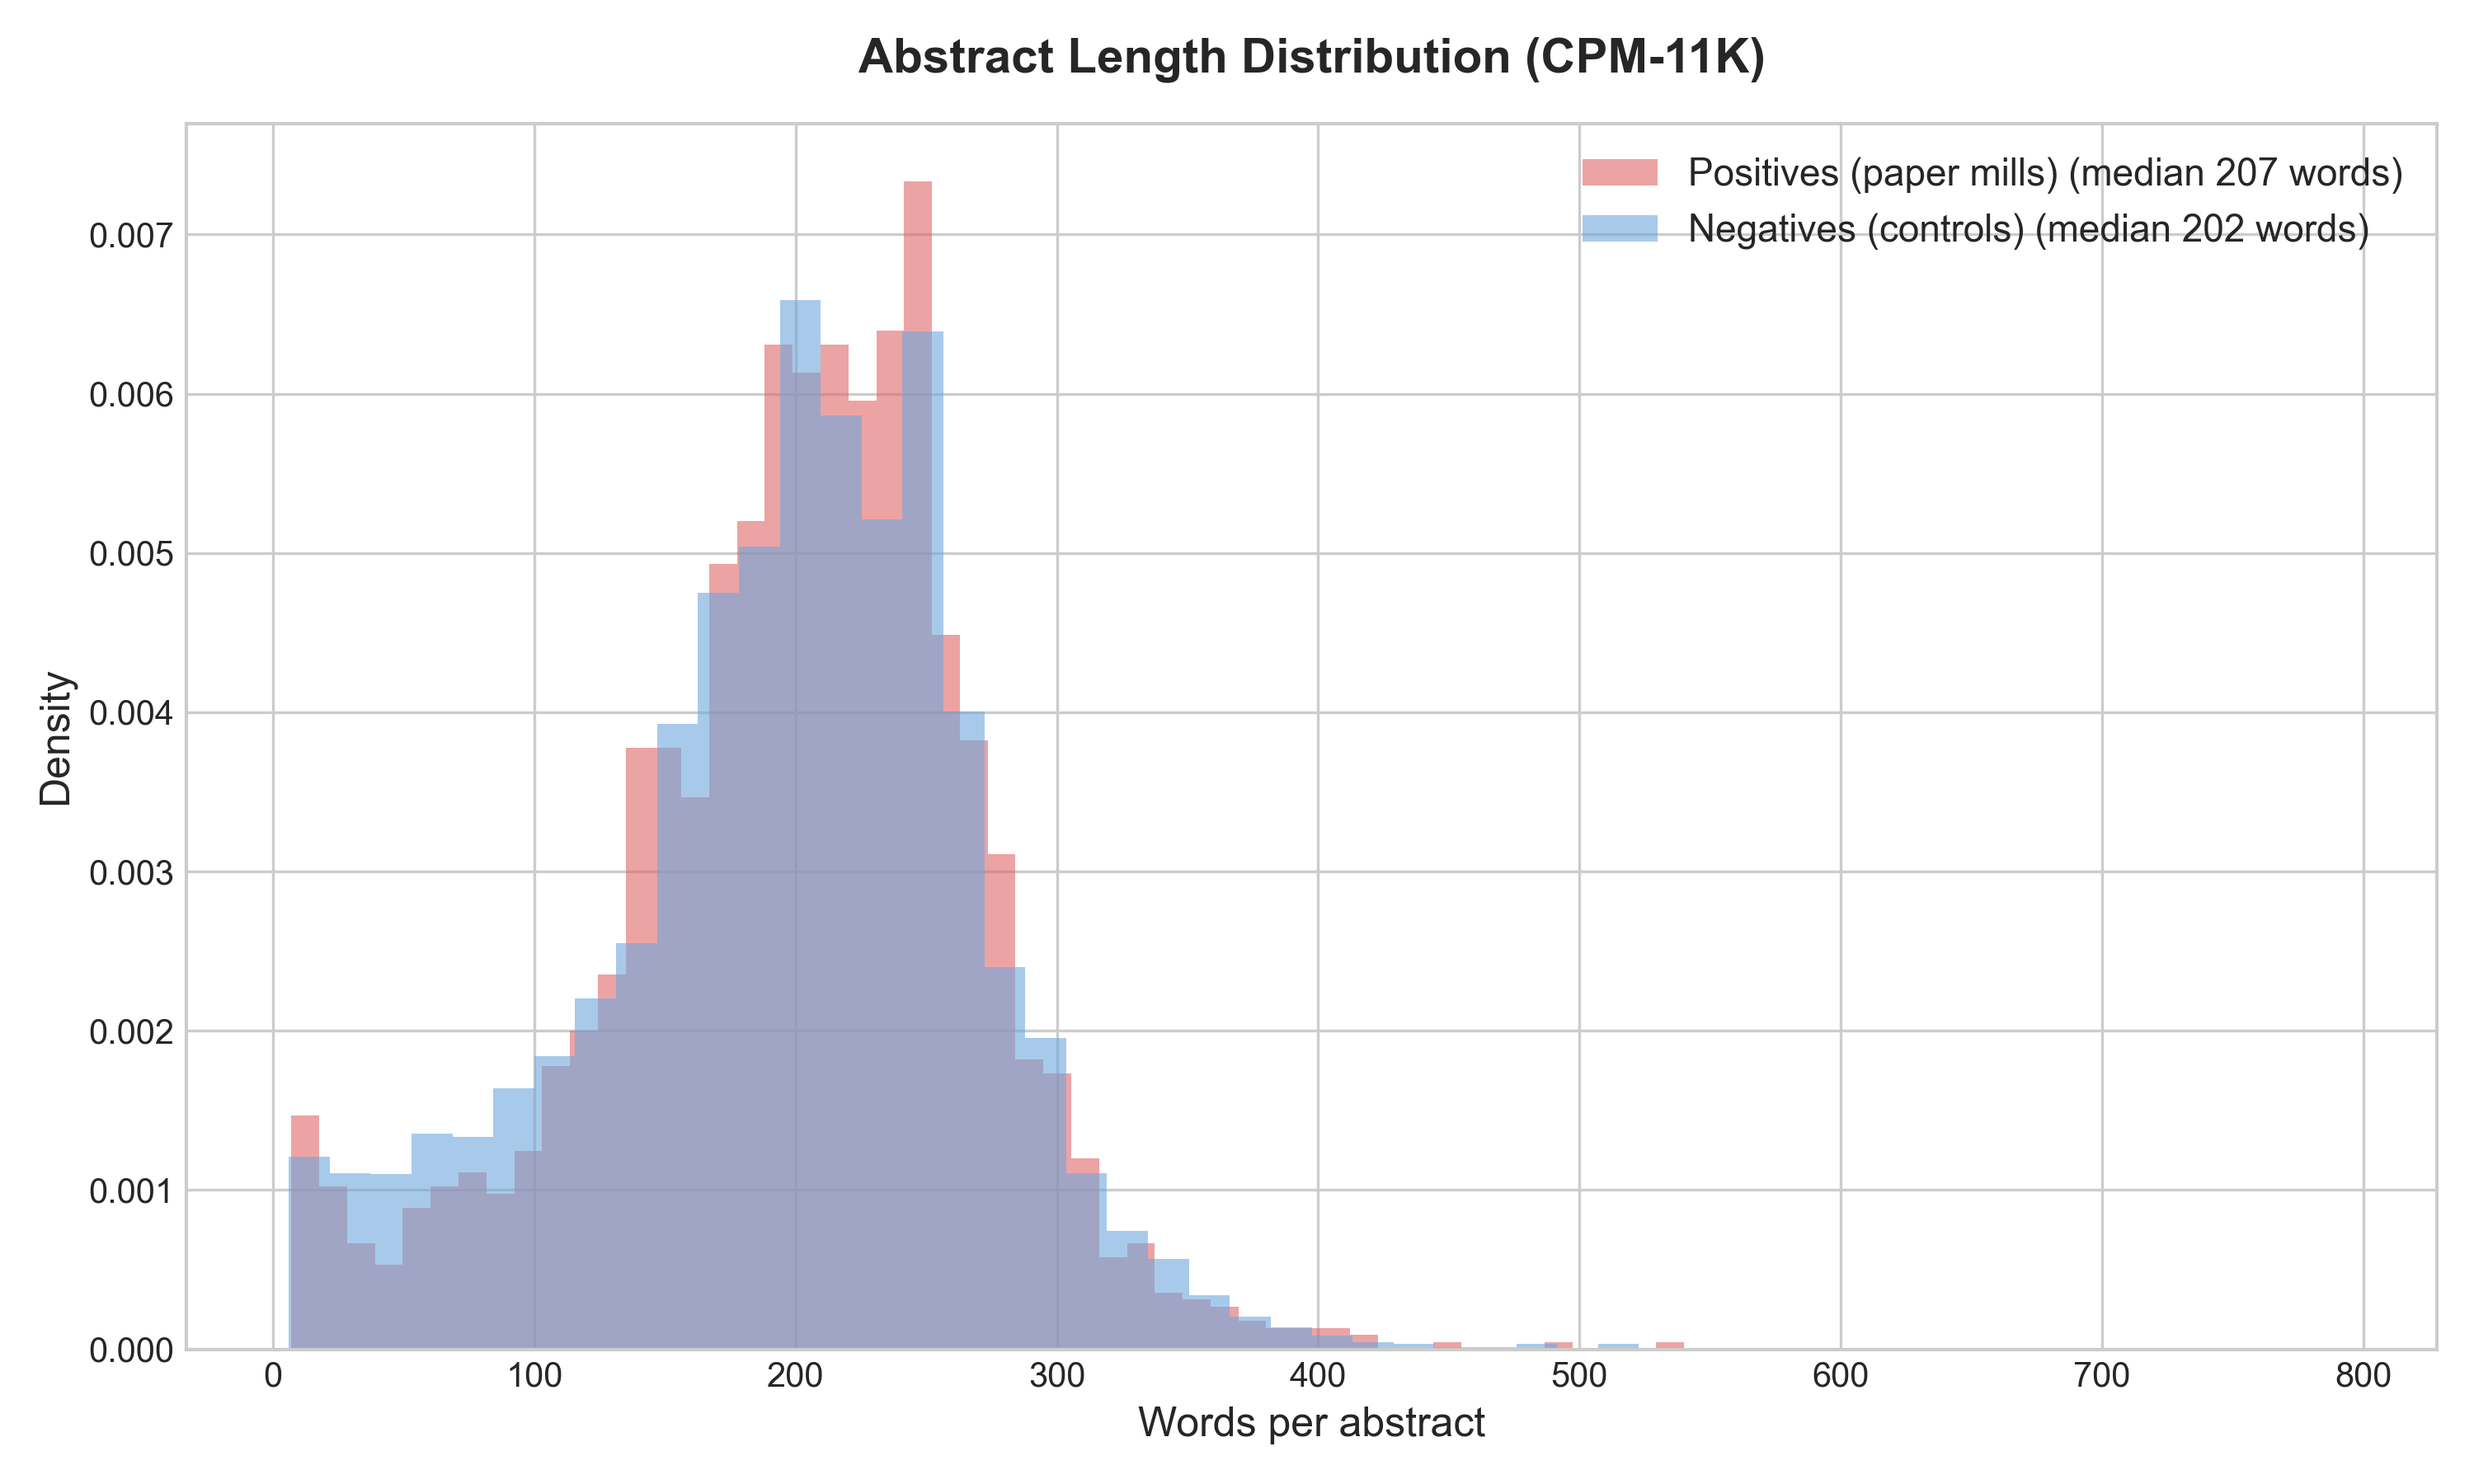
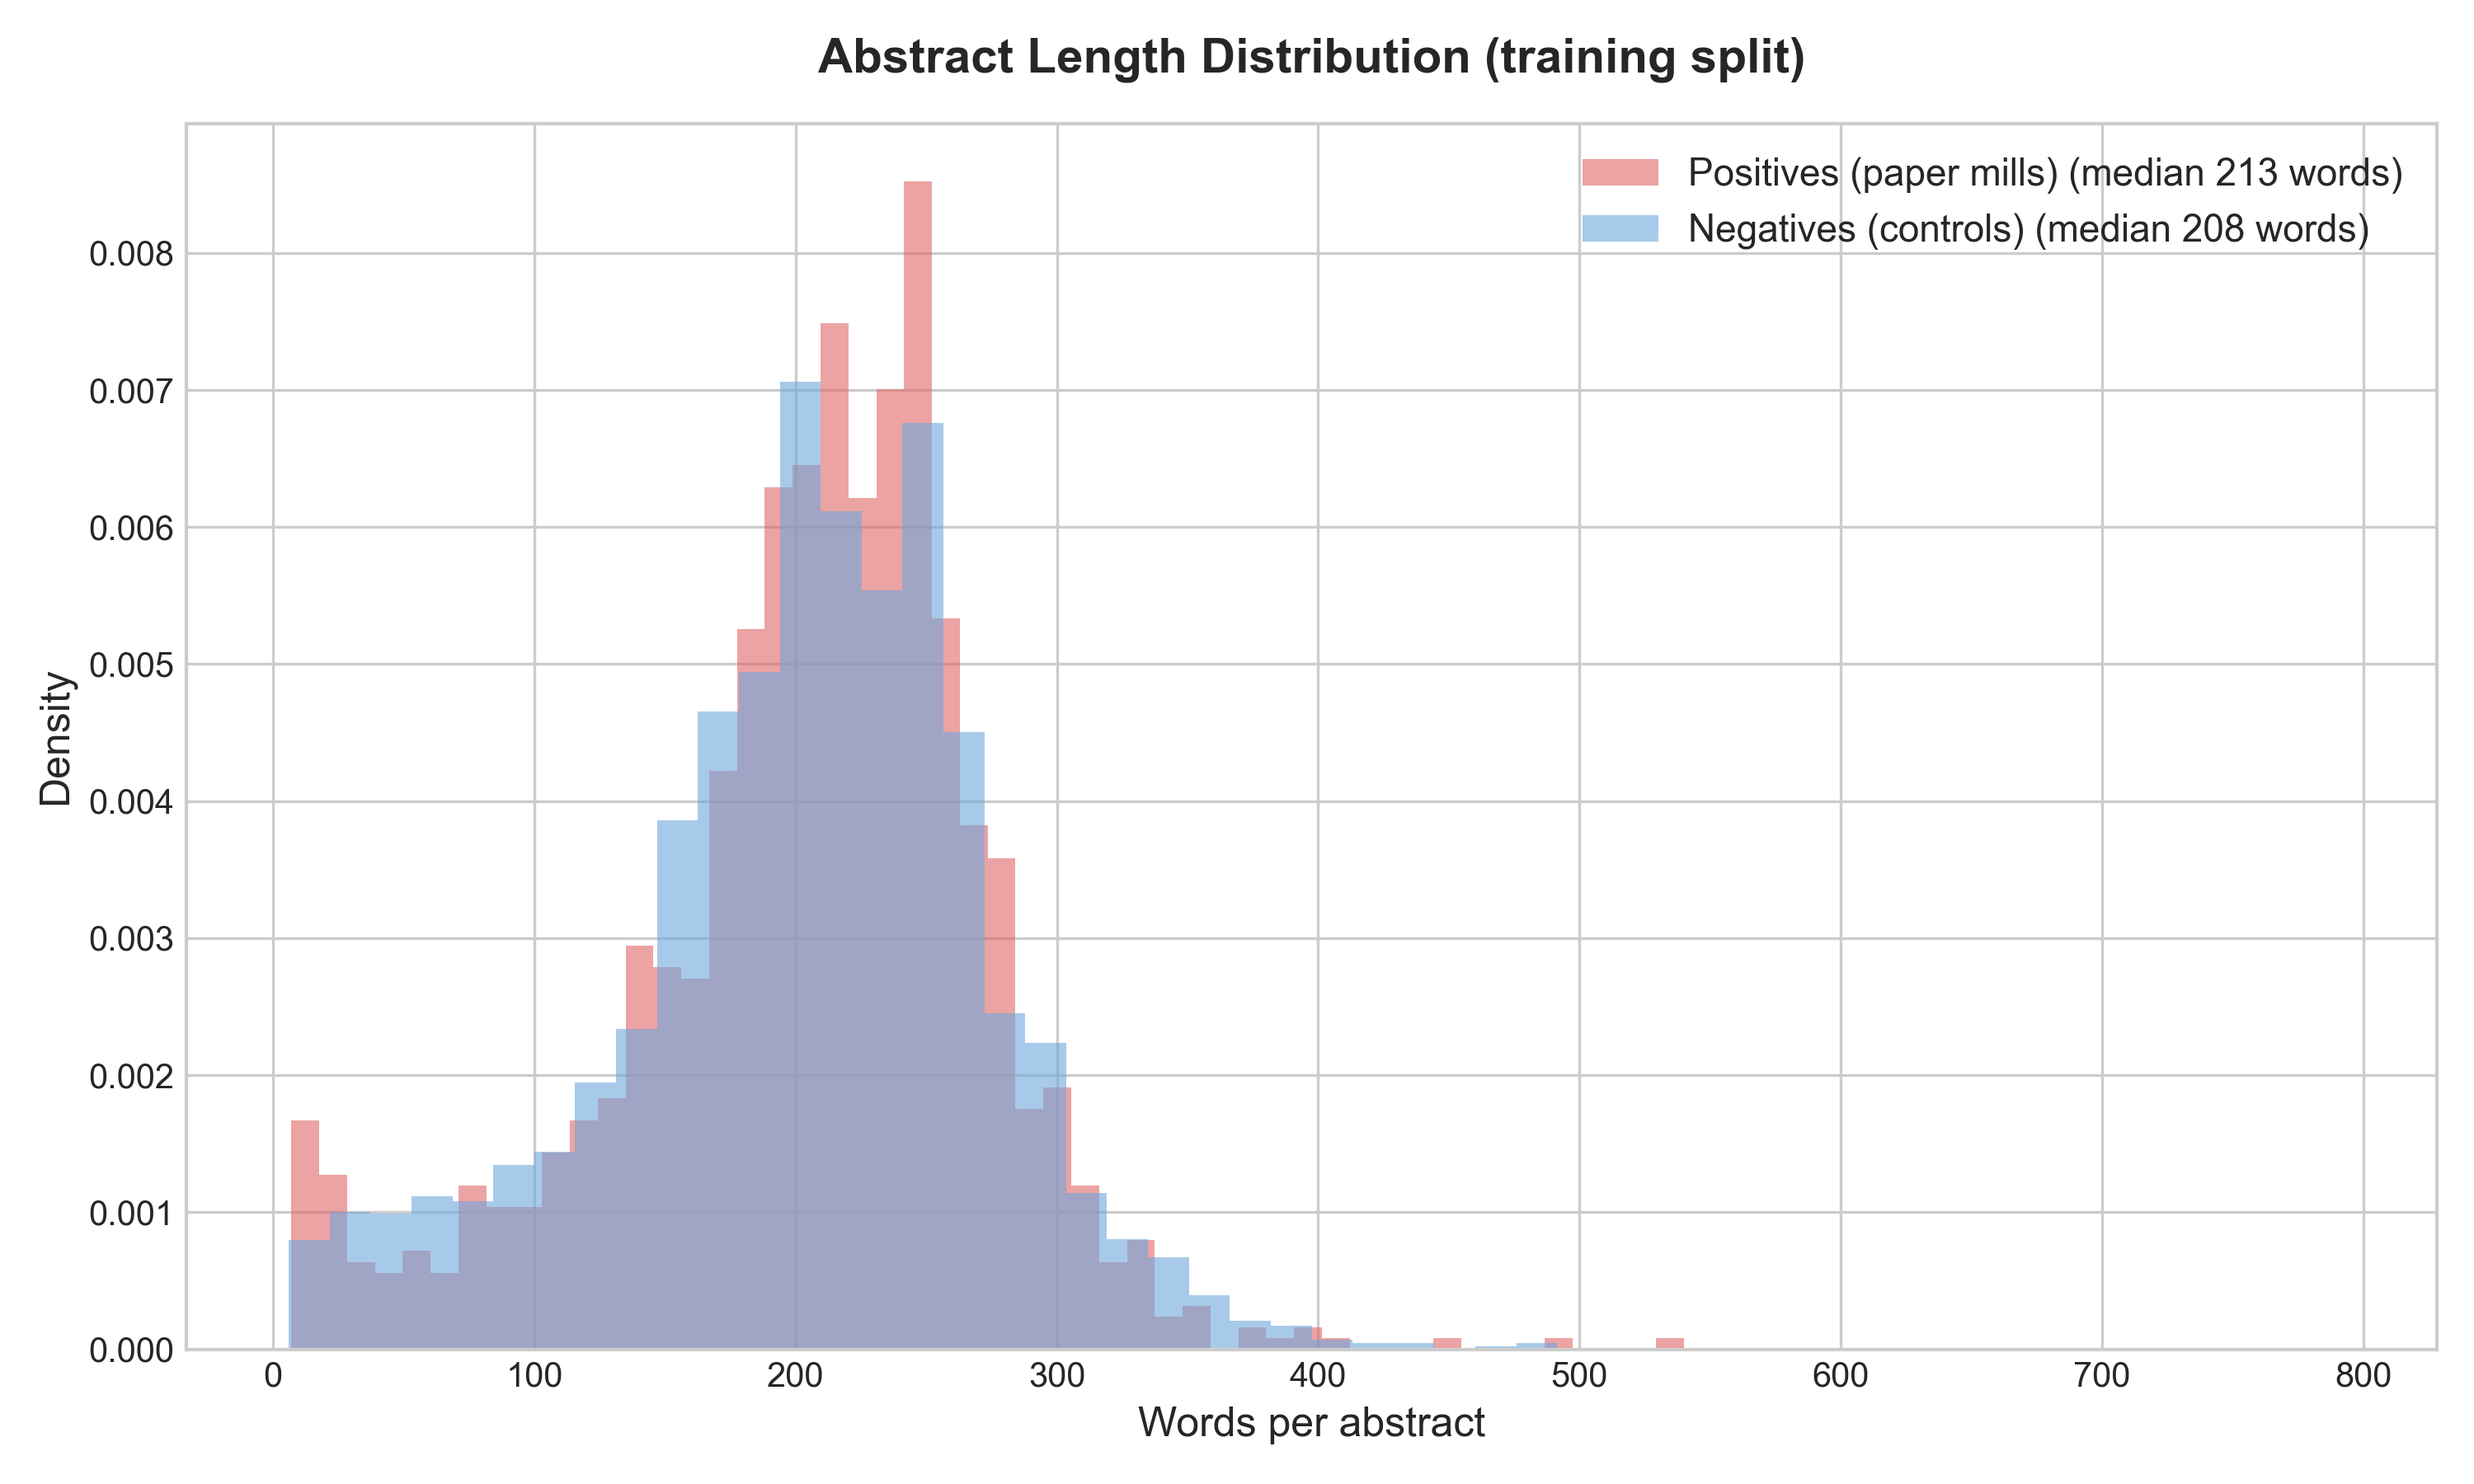
fix(figures): remove overlapping legends and align abstract-length figure with thesis
- significance_forest_plot: drop legend that overlapped the TF-IDF annotation
- probability_distribution: move statistics boxes off the histogram bars
- eda_abstract_lengths: use the training split, as described in thesis §3.1

diff --git a/scripts/viz/generate_eda_figures.py b/scripts/viz/generate_eda_figures.py
@@ -7,7 +7,7 @@ Outputs (docs/figures/):
     eda_purge_cascade.png         fate of the initial candidate pool
     eda_split_volumes.png         train / validation / test / holdout sizes
     eda_class_imbalance.png       global class ratio
-    eda_abstract_lengths.png      abstract length (words) by class
+    eda_abstract_lengths.png      abstract length (words) by class, training split (thesis §3.1)
 """
 import sys
 from collections import Counter
@@ -132,13 +132,13 @@ def class_imbalance(dataset):
     save(fig, "eda_class_imbalance.png")
 
 
-def abstract_lengths(dataset):
+def abstract_lengths(train):
     fig, ax = plt.subplots(figsize=(10, 6))
     for lab, color, label in ((1, POS_COLOR, POS_LABEL), (0, NEG_COLOR, NEG_LABEL)):
-        words = [len(r["abstract"].split()) for r in dataset if r["label"] == lab]
+        words = [len(r["abstract"].split()) for r in train if r["label"] == lab]
         ax.hist(words, bins=50, alpha=0.6, density=True, color=color,
                 label=f"{label} (median {np.median(words):.0f} words)")
-    ax.set_title("Abstract Length Distribution (CPM-11K)", fontsize=14, fontweight="bold", pad=15)
+    ax.set_title("Abstract Length Distribution (training split)", fontsize=14, fontweight="bold", pad=15)
     ax.set_xlabel("Words per abstract", fontsize=12)
     ax.set_ylabel("Density", fontsize=12)
     ax.legend(fontsize=11)
@@ -154,7 +154,7 @@ def main():
     purge_cascade()
     split_volumes(splits)
     class_imbalance(dataset)
-    abstract_lengths(dataset)
+    abstract_lengths(splits[0])
 
 
 if __name__ == "__main__":

diff --git a/scripts/viz/generate_analysis_figures.py b/scripts/viz/generate_analysis_figures.py
@@ -53,11 +53,11 @@ def probability_distribution(res):
             ax.hist(p, bins=25, range=(0, 1), alpha=0.6, density=True, color=color,
                     label=f"{name} (N={len(p)})")
         ax.axvline(t, color="black", linestyle="--", label=f"Threshold t={t:.2f}")
-        ax.text(0.02, 0.96,
+        ax.text(0.98, 0.74,
                 f"Pos: mean={st['positives']['mean']:.3f}, median={st['positives']['median']:.3f}\n"
                 f"Neg: mean={st['negatives']['mean']:.3f}, median={st['negatives']['median']:.3f}\n"
                 f"AUC={100 * res['stratum_ci'][s]['auc']:.1f}%",
-                transform=ax.transAxes, fontsize=10, va="top", bbox=BOX)
+                transform=ax.transAxes, fontsize=10, va="top", ha="right", bbox=BOX)
         ax.set_title(f"{title} - predicted fraud probability", fontsize=13, fontweight="bold")
         ax.set_xlabel("Predicted probability", fontsize=11)
         ax.set_ylabel("Density", fontsize=11)

diff --git a/scripts/viz/generate_final_eval_figures.py b/scripts/viz/generate_final_eval_figures.py
@@ -118,7 +118,7 @@ def forest_plot():
 
     fig, ax = plt.subplots(figsize=(11, 5.5))
     ax.errorbar(means, y, xerr=[means - lo, hi - means], fmt="o", color="#1f77b4",
-                markersize=8, elinewidth=2.5, capsize=8, label="Mean dF1 with 95% bootstrap CI")
+                markersize=8, elinewidth=2.5, capsize=8)
     ax.axvline(0, color="grey", linestyle="--", lw=1.5)
     for yi, m, h in zip(y, names, hi):
         t = sig["mcnemar"][m]
@@ -132,7 +132,6 @@ def forest_plot():
                   "(> 0 favours Combined TF-IDF)", fontsize=11)
     ax.set_title("Paired Comparison against Combined TF-IDF (Validation)", fontsize=14,
                  fontweight="bold", pad=15)
-    ax.legend(loc="upper right", fontsize=10)
     save(fig, "significance_forest_plot.png")
 
 

diff --git a/docs/THESIS_CHAPTER.md b/docs/THESIS_CHAPTER.md
@@ -84,7 +84,7 @@ The distributions of abstract lengths are homogeneous between classes (medians o
 | | Min / Max | 50 / 4983 | 6 / 789 |
 
 ![Abstract length distribution](figures/eda_abstract_lengths.png)
-*Figure 6: Comparative histograms of abstract length distributions (words and characters) for positive (paper mills) and negative (legitimate literature) classes.*
+*Figure 6: Histograms of abstract length (words) in the training partition for positive (paper mills) and negative (legitimate literature) classes.*
 
 ### 3.2. Lexical and publisher biases
 *   **Textual leakage:** Terms like `retract` or `withdraw` represent less than 0.35% of occurrences. Publisher names (`hindawi`, `spandidos`) are absent from the abstracts, ensuring the cleaning of boilerplate text.
